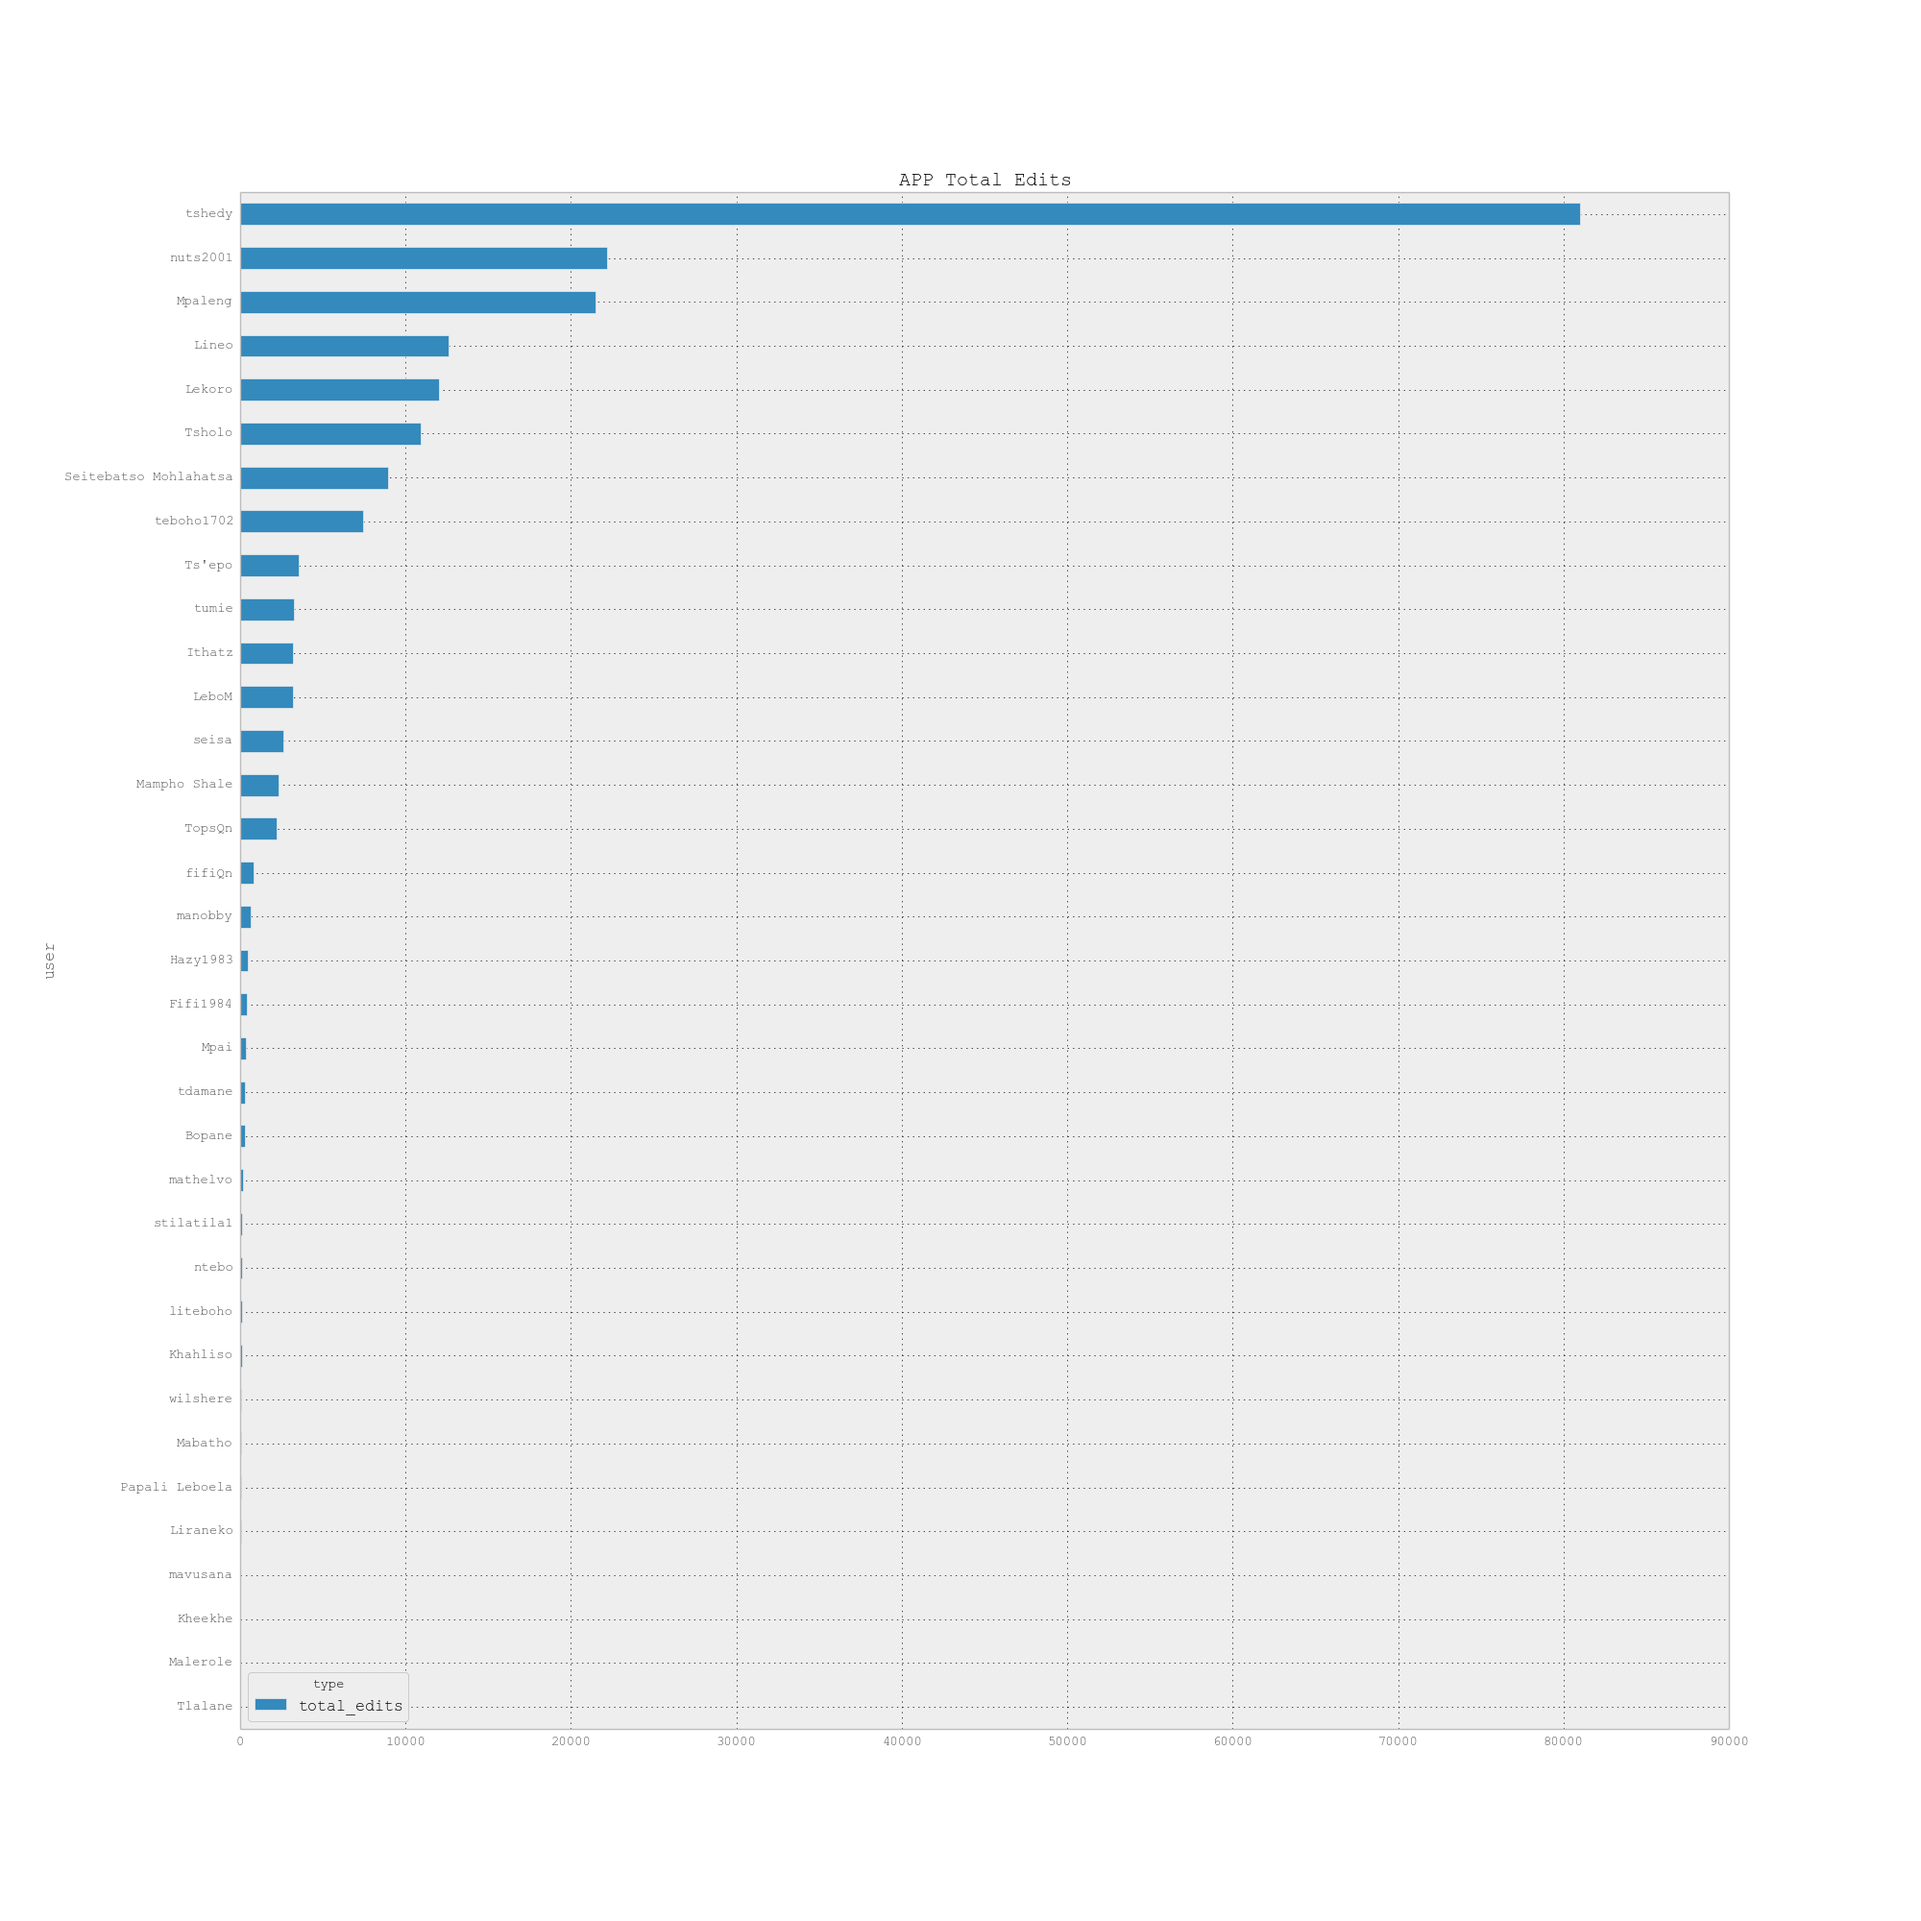
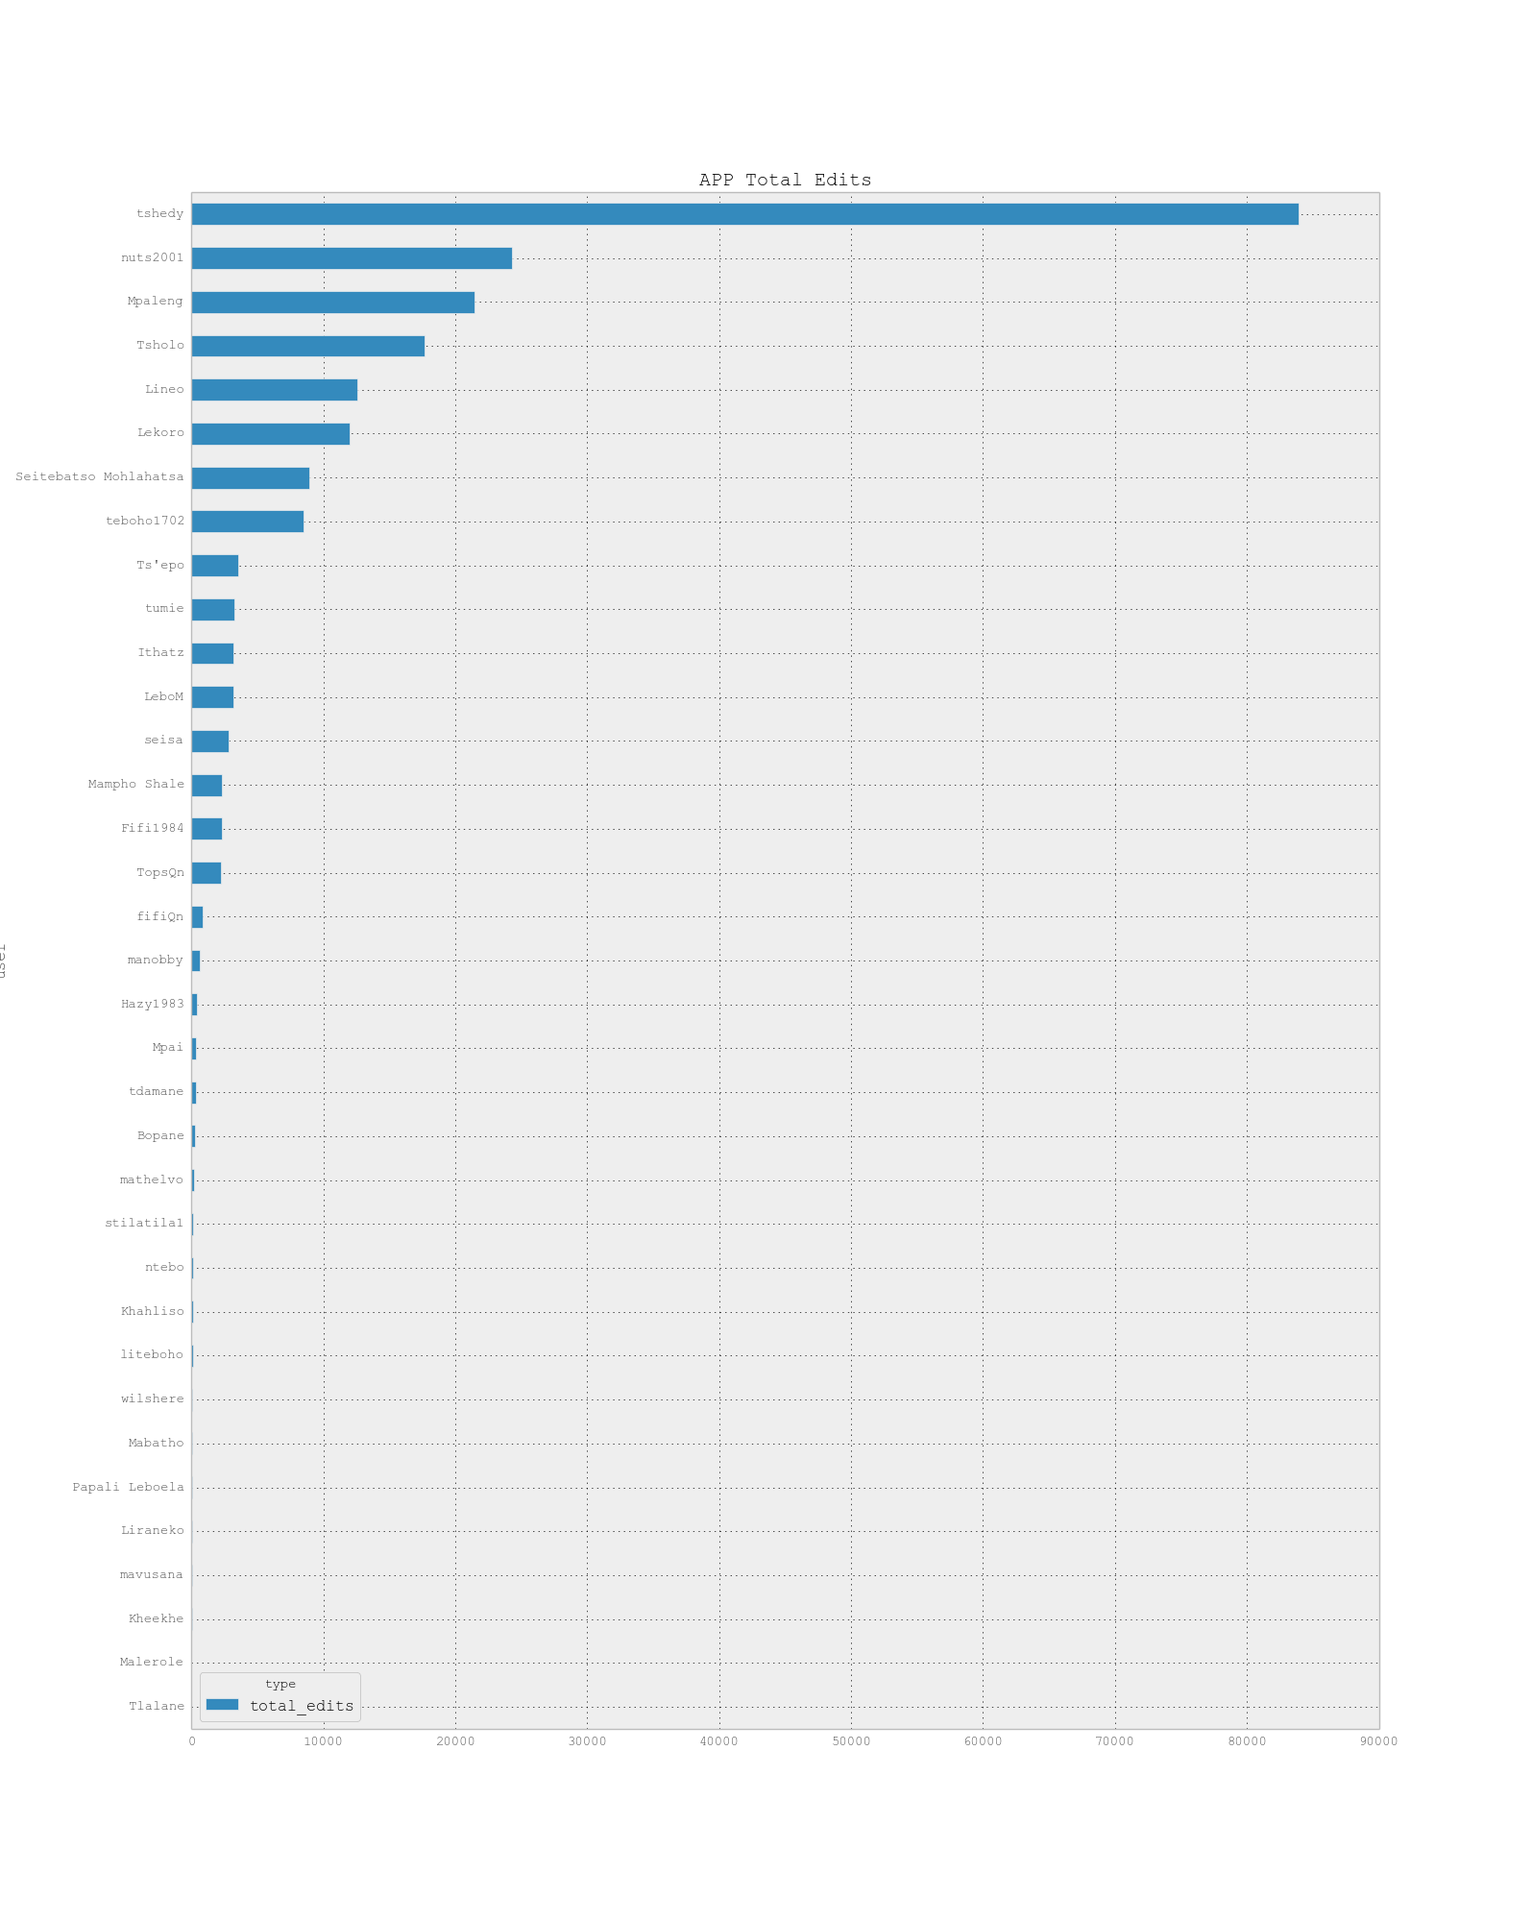
updated with stats from 27/08/2015

diff --git a/index.html b/index.html
@@ -69,29 +69,37 @@
     <tr>
       <th>0</th>
       <td>tshedy</td>
-      <td>74834</td>
-      <td>254</td>
-      <td>5925</td>
-      <td>81013</td>
+      <td>77681</td>
+      <td>255</td>
+      <td>6000</td>
+      <td>83936</td>
     </tr>
     <tr>
       <th>1</th>
       <td>nuts2001</td>
-      <td>21023</td>
+      <td>23098</td>
       <td>60</td>
-      <td>1096</td>
-      <td>22179</td>
+      <td>1161</td>
+      <td>24319</td>
     </tr>
     <tr>
       <th>2</th>
       <td>Mpaleng</td>
       <td>20792</td>
-      <td>14</td>
+      <td>16</td>
       <td>658</td>
-      <td>21464</td>
+      <td>21466</td>
     </tr>
     <tr>
       <th>3</th>
+      <td>Tsholo</td>
+      <td>17614</td>
+      <td>24</td>
+      <td>30</td>
+      <td>17668</td>
+    </tr>
+    <tr>
+      <th>4</th>
       <td>Lineo</td>
       <td>11975</td>
       <td>357</td>
@@ -99,20 +107,12 @@
       <td>12582</td>
     </tr>
     <tr>
-      <th>4</th>
+      <th>5</th>
       <td>Lekoro</td>
       <td>11841</td>
       <td>12</td>
       <td>160</td>
       <td>12013</td>
-    </tr>
-    <tr>
-      <th>5</th>
-      <td>Tsholo</td>
-      <td>10850</td>
-      <td>24</td>
-      <td>30</td>
-      <td>10904</td>
     </tr>
     <tr>
       <th>6</th>
@@ -125,18 +125,18 @@
     <tr>
       <th>7</th>
       <td>teboho1702</td>
-      <td>6645</td>
+      <td>7663</td>
       <td>32</td>
-      <td>755</td>
-      <td>7432</td>
+      <td>805</td>
+      <td>8500</td>
     </tr>
     <tr>
       <th>8</th>
       <td>Ts'epo</td>
       <td>3473</td>
       <td>39</td>
-      <td>5</td>
-      <td>3517</td>
+      <td>6</td>
+      <td>3518</td>
     </tr>
     <tr>
       <th>9</th>
@@ -165,10 +165,10 @@
     <tr>
       <th>12</th>
       <td>seisa</td>
-      <td>2611</td>
+      <td>2772</td>
       <td>12</td>
       <td>1</td>
-      <td>2624</td>
+      <td>2785</td>
     </tr>
     <tr>
       <th>13</th>
@@ -180,6 +180,14 @@
     </tr>
     <tr>
       <th>14</th>
+      <td>Fifi1984</td>
+      <td>809</td>
+      <td>2</td>
+      <td>1488</td>
+      <td>2299</td>
+    </tr>
+    <tr>
+      <th>15</th>
       <td>TopsQn</td>
       <td>2186</td>
       <td>8</td>
@@ -187,7 +195,7 @@
       <td>2220</td>
     </tr>
     <tr>
-      <th>15</th>
+      <th>16</th>
       <td>fifiQn</td>
       <td>790</td>
       <td>31</td>
@@ -195,7 +203,7 @@
       <td>824</td>
     </tr>
     <tr>
-      <th>16</th>
+      <th>17</th>
       <td>manobby</td>
       <td>650</td>
       <td>0</td>
@@ -203,20 +211,12 @@
       <td>650</td>
     </tr>
     <tr>
-      <th>17</th>
+      <th>18</th>
       <td>Hazy1983</td>
       <td>401</td>
       <td>27</td>
       <td>14</td>
       <td>442</td>
-    </tr>
-    <tr>
-      <th>18</th>
-      <td>Fifi1984</td>
-      <td>391</td>
-      <td>2</td>
-      <td>5</td>
-      <td>398</td>
     </tr>
     <tr>
       <th>19</th>

diff --git a/get_maplesotho_stats.py b/get_maplesotho_stats.py
@@ -21,7 +21,7 @@ def check_args(start, end):
 
 
 filename = 'lesotho_%s%s.json' % (start, end)
-total_files = end - start
+total_files = end - start + 1
 
 print ("Fetching %s changesets from geofabrik...\n" % total_files)
 os.system("node examples/cmd.js %s %s | jq -c '{type: .type, user:.user, changeset: .changeset, version: .version, timestamp: .timestamp}' > data/lesotho/%s" % (start, end, filename))
